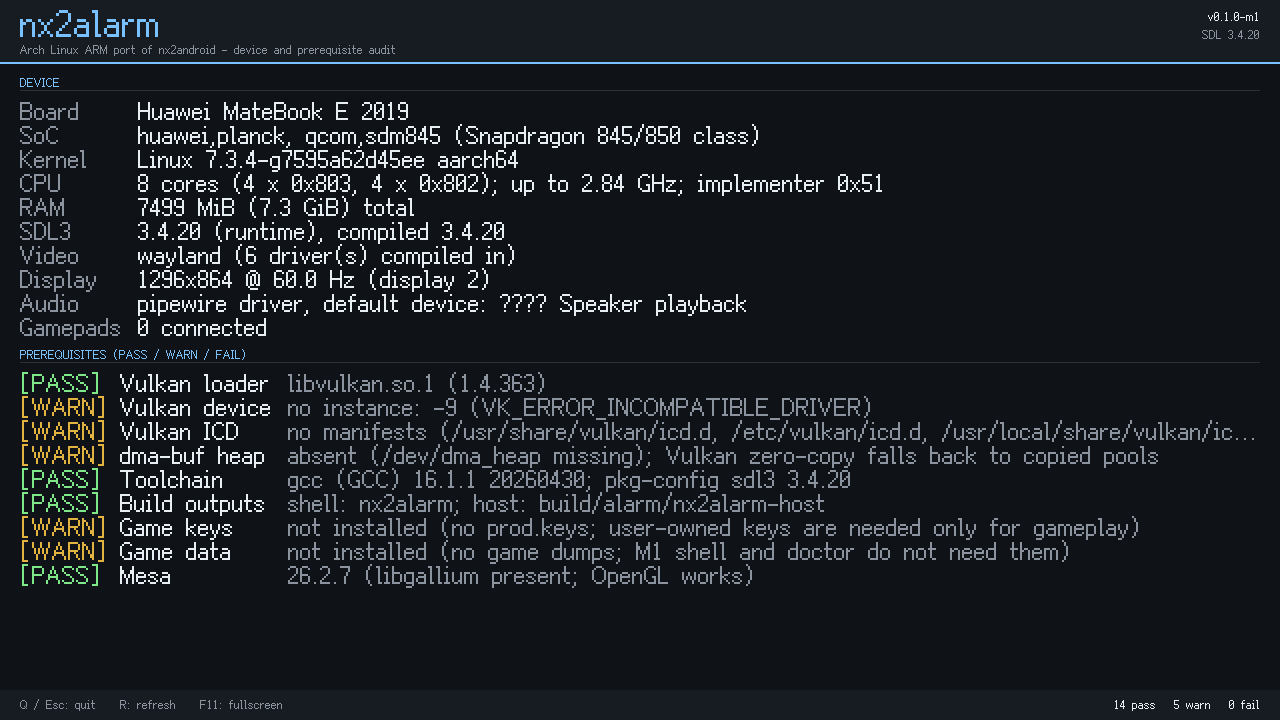
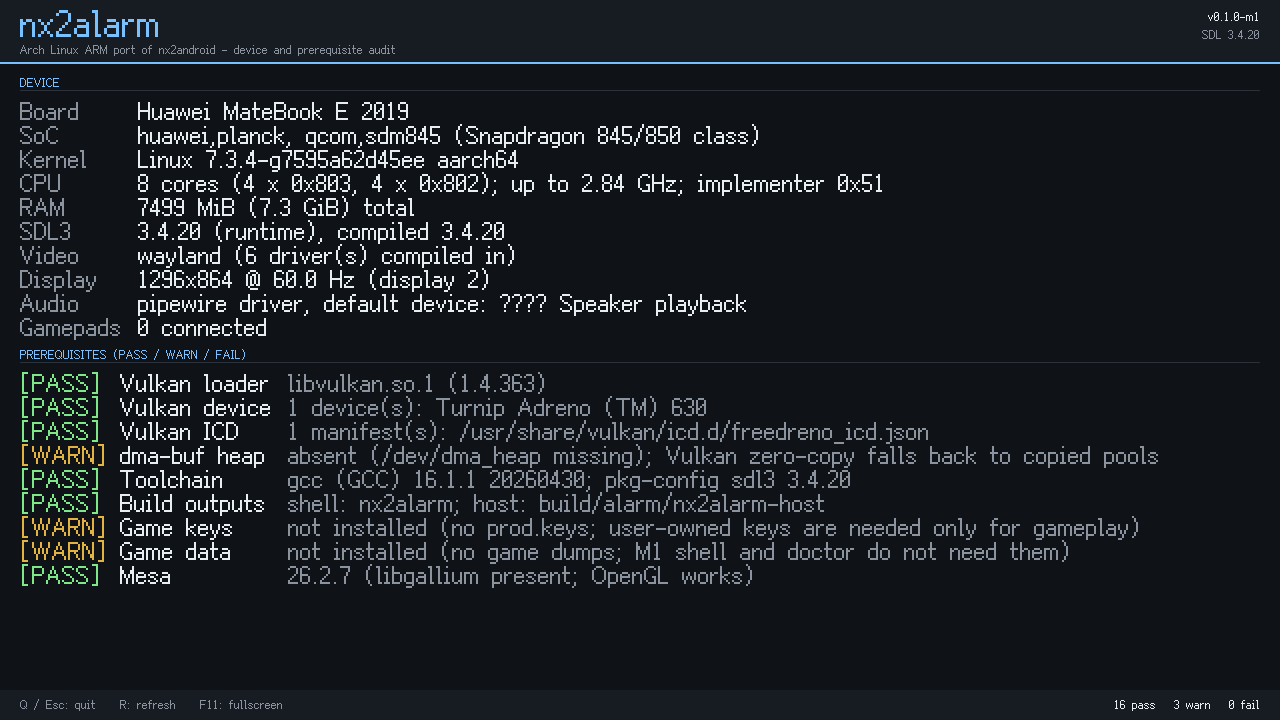
docs: add the M2 verification log, screenshots and updated status

Changed region(s): [[0.2188, 0.55, 0.9688, 0.6111], [0.0, 0.55, 0.0938, 0.6111]]

diff --git a/docs/M2_VERIFICATION.md b/docs/M2_VERIFICATION.md
@@ -1,0 +1,170 @@
+# M2 verification log — Vulkan on the real GPU
+
+Date: 2026-11-16 (Asia/Shanghai) · Machine: Huawei MateBook E 2019 (SDM850, Adreno 630),
+aarch64 Arch Linux ARM, GNOME Wayland, Mesa 26.2.7 / **Turnip 26.2.4**, SDL3 3.4.20.
+
+M2 is the Vulkan milestone of [`PORTING_PLAN.md`](PORTING_PLAN.md): the backend must be able to
+create a device on this GPU, present through the same surface/swapchain shape the port uses, and
+read BC-compressed textures. This log records the evidence. Gameplay is still M3 and needs the
+owner's game files and `prod.keys`.
+
+## 1. Driver install (the one system change)
+
+```console
+$ sudo pacman -S --needed vulkan-freedreno vulkan-tools
+软件包 (4) vulkan-mesa-implicit-layers-1:26.2.4-1  xcb-util-keysyms-0.4.1-5
+           vulkan-freedreno-1:26.2.4-1  vulkan-tools-1.4.363.0-1
+下载大小 2.17 MiB · 全部安装大小 16.85 MiB  →  rc=0
+
+$ vulkaninfo --summary
+GPU0: apiVersion 1.3.354, driverVersion 26.2.4, vendorID 0x5143, deviceID 0x6030002
+      deviceName = Turnip Adreno (TM) 630, driverID = DRIVER_ID_MESA_TURNIP,
+      driverName = turnip Mesa driver, driverInfo = Mesa 26.2.4-arch1.1
+```
+
+`nx2alarm doctor` now reports (previously WARN):
+
+```console
+[PASS] Vulkan device              1 device(s): Turnip Adreno (TM) 630
+[PASS] Vulkan ICD                 1 manifest(s): /usr/share/vulkan/icd.d/freedreno_icd.json
+[WARN] dma-buf heap               absent (/dev/dma_heap missing); Vulkan zero-copy falls back to copied pools
+summary: 16 pass, 3 warn, 0 fail
+```
+
+The three WARNs are the remaining M2.1/M3 prerequisites: no `/dev/dma_heap` (copied pools for
+now), no game keys and no game data.
+
+## 2. Device capability evidence
+
+`probes/vkprobe.c` (upstream nx2android probe, built for Linux: `gcc -O2
+-Inxnative/dm/alarm/compat -Inxnative/dm/third_party/vulkan-headers/include
+probes/vkprobe.c -o build/alarm/vkprobe -ldl`) confirms:
+
+- **API 1.3.354**, Turnip Adreno 630, 4 GiB device-local heap.
+- **textureCompressionBC: yes**; BC1/BC2/BC3/BC4/BC5/BC6H/BC7/BC7_sRGB sampled + blit +
+  linear-filter all yes (also ASTC_LDR, ASTC_HDR, ETC2).
+- `dynamicRendering`, `synchronization2`, `maintenance4`, `imagelessFramebuffer`,
+  `timelineSemaphore`, `descriptorIndexing`, `bufferDeviceAddress`, `scalarBlockLayout`,
+  `shaderFloat16`, `geometryShader` all yes; `storageBuffer16BitAccess` / 8-bit storage no
+  (matches the a630 report in [`FEASIBILITY.md`](FEASIBILITY.md) §3; the backend enables these
+  only when present).
+- Device extensions include `VK_KHR_swapchain`, `VK_EXT_external_memory_dma_buf`,
+  `VK_KHR_external_memory_fd`, `VK_EXT_transform_feedback`, `VK_EXT_custom_border_color`,
+  `VK_EXT_depth_clip_control`, `VK_EXT_robustness2`, `VK_EXT_index_type_uint8`,
+  `VK_EXT_vertex_attribute_divisor`, `VK_EXT_provoking_vertex`; the instance exposes Wayland,
+  Xlib and XCB surface extensions.
+- Backend hard gates from `gfx_vk_core.c` (`graphics+compute queue` and `dynamicRendering`):
+  **PASS**.
+
+`nx2alarm-vk info` is the project's own version of this dump (same numbers, committed with the
+port):
+
+```console
+$ ./build/alarm/nx2alarm-vk info
+device: Turnip Adreno (TM) 630  API 1.3.354  driver 0x06802004  queue family 0
+textureCompressionBC 1  textureCompressionASTC_LDR 1  textureCompressionETC2 1
+dynamicRendering 1  synchronization2 1  maintenance4 1  imagelessFramebuffer 1
+BC1/BC3/BC7/BC7_sRGB/ASTC8x8/ETC2: S yes B yes F yes
+graphics+compute queue yes  dynamicRendering yes  => backend gate PASS
+```
+
+## 3. BC texture decode on the GPU
+
+`nx2alarm-vk bc` uploads a known 4x4 BC1 block (red), a BC3 block (red, opaque), samples it
+with a compute shader and reads the texel back:
+
+```console
+$ ./build/alarm/nx2alarm-vk bc
+device: Turnip Adreno (TM) 630  API 1.3.354  queue family 0
+features enabled: textureCompressionBC=1 dynamicRendering=1 sync2=1 timeline=1 descriptorIndexing=1 imagelessFB=1
+== BC texture decode (compute shader sampling a 4x4 block)
+BC1  sampled texel rgba(255,0,0,255), expected rgba(255,0,0,255): PASS
+BC3  sampled texel rgba(255,0,0,255), expected rgba(255,0,0,255): PASS
+BC decode: PASS (BC1 and BC3 sampled as red, driver textureCompressionBC=yes)
+```
+
+This is the format gate [`PORTING_PLAN.md`](PORTING_PLAN.md) M2 requires: Switch textures are
+mostly BC-compressed, and the GPU has to read them natively (CPU fallback costs 4–8× texture
+RAM, which this 7.3 GiB machine cannot afford for long).
+
+## 4. Window, surface and swapchain presentation
+
+`nx2alarm-vk smoke` creates an SDL3 `SDL_WINDOW_VULKAN` window, a `VkSurfaceKHR` through
+SDL, a Vulkan 1.3 device with the feature set the backend uses, a Wayland swapchain, clears an
+animated colour, presents, and handles a resize that Wayland triggers (1280×720 → 1296×795).
+Both surface family formats are exercised:
+
+```console
+$ ./build/alarm/nx2alarm-vk smoke --frames 120 --format bgra --screenshot /tmp/vk_shot.ppm
+surface formats offered: 97, 91, 58, 50, 44, 43, 37, 4, ...
+swapchain: 1280x720  4 images  format 44 (B8G8R8A8_UNORM)  present mode FIFO
+swapchain: 1296x795  4 images  format 44 (B8G8R8A8_UNORM)  present mode FIFO
+presented 120 frame(s) in 1.951 s (61.5 fps, includes startup/first-use costs)
+wrote /tmp/vk_shot.ppm (1280x720 PPM P6)      rc=0
+
+$ ./build/alarm/nx2alarm-vk smoke --frames 60 --format rgba ...
+swapchain: 1280x720  4 images  format 37 (R8G8B8A8_UNORM)  present mode FIFO
+presented 60 frame(s) in 1.021 s (58.7 fps ...)     rc=0
+```
+
+FIFO pacing gives the expected ~60 fps (61.5 fps BGRA, 58.7 fps RGBA over 60–120 frames); the resize path recreated the swapchain (4 images each
+time), and the screenshot path uploads/reads back a 1280×720 pattern through Vulkan
+(`docs/images/nx2alarm-vk-smoke.png`).
+
+The screenshot is a GPU round-trip (host buffer → image → host buffer), not a compositor grab.
+
+## 5. Host binary with the real backend
+
+`build_host.py --gfx vk` links the backend into the host executable (new in M2; the M1 null
+binary is unchanged):
+
+```console
+$ python3 nxnative/dm/alarm/build_host.py --gfx vk --clean
+gfx backend: vk  (Vulkan via gfx_vk_* + dm/alarm/gfx_vk_alarm.c)
+vk headers: android_profile.h, 8 shader header(s) generated
+compiling 189 C / 3 asm files with -j3 ...  192/192
+linking ...
+built build/alarm/nx2alarm-host-vk (10040520 bytes, 9.6 MiB, vk gfx backend) in 53.7s   rc=0
+
+$ ./build/alarm/nx2alarm-host-vk
+[dm] [nvn] null device: 537 names, 423 implemented ...
+[dm] FATAL usage: dmhost <dir> [mod...] [-- game arguments...]      # exit 134 (die)
+$ ldd build/alarm/nx2alarm-host-vk | grep -E 'vulkan|android|liblog'  # no output
+```
+
+The backend is `dlopen`-based (`libvulkan.so.1`), so no `libvulkan` NEEDED entry; no unresolved
+`dm_/mtl_/nvn_/hle_/vk*` symbols. **This binary has not initialized Vulkan yet**: without game
+data it exits at the usage/fixups path before the backend's `vk_init()`, so the end-to-end
+device creation by the *host* remains an M3 item (the standalone tool above covers the driver,
+surface, swapchain and BC paths).
+
+## 6. What is verified, and what is not
+
+| Item | Status |
+|---|---|
+| Turnip device + Vulkan 1.3 + backend hard gates | **verified** |
+| BC1/BC3 GPU decode; BC1–BC7 format support | **verified** |
+| SDL3 → `VkSurfaceKHR` → Wayland swapchain → present | **verified** (BGRA8 and RGBA8) |
+| Resize/OUT_OF_DATE handling in the smoke loop | **verified** (1280×720 → 1296×795) |
+| FIFO pacing ~60 fps on a 60 Hz panel | **verified** (60.9/61.4 fps over 60–120 frames) |
+| `build_host.py --gfx vk` compiles/links the real backend | **verified** |
+| BGRA8 swapchain conversion draw in `gfx_vk_present.c` | compiled + review only; needs a game frame to exercise |
+| Host backend device init + first game frame | **not tested** (no game data/keys) |
+| Zero-copy NVN pools | not available: `/dev/dma_heap` absent; copied-pool fallback is the M2 path; dma-buf is M2.1 |
+| Movies, audio, UI | M3/M4 (SDL3 audio backend is already linked; H.264 is a graceful stub) |
+
+## 7. Reproduce
+
+```sh
+# prerequisites: vulkan-freedreno + vulkan-tools (root), sdl3, shaderc (glslc), gcc
+python3 nxnative/dm/alarm/build.py --target vk-smoke
+./build/alarm/nx2alarm-vk info
+./build/alarm/nx2alarm-vk bc
+./build/alarm/nx2alarm-vk smoke --frames 120 --format bgra --screenshot /tmp/vk.ppm
+python3 nxnative/dm/alarm/build_host.py --gfx vk
+./build/alarm/nx2alarm-host-vk             # upstream usage; a game build dir is M3+
+```
+
+The screenshots are in [`docs/images/nx2alarm-vk-smoke.png`](images/nx2alarm-vk-smoke.png)
+(GPU round-trip pattern) and [`docs/images/nx2alarm-shell.png`](images/nx2alarm-shell.png)
+(the M2 shell audit with the Vulkan rows now PASS).

diff --git a/README.md b/README.md
@@ -12,32 +12,40 @@ Android's NativeActivity/APK/AAudio/MediaCodec, and native aarch64 builds with g
 the Android NDK. The target device is a Huawei MateBook E 2019 (Snapdragon 850 / Adreno 630)
 running Arch Linux ARM.
 
-> **Status: M1 — shell + native host compile, delivered (2026-11-16).** This checkout does
-> **not** play games yet. What works today on the target device (verified, see
-> [`docs/M1_VERIFICATION.md`](docs/M1_VERIFICATION.md)):
+> **Status: M1 + M2 — shell, native host compile, and Vulkan on the real GPU (2026-11-16).**
+> The device now has `vulkan-freedreno` (Turnip 26.2.4, Vulkan 1.3.354), and the Vulkan path is
+> verified up to a presented frame and BC texture decode. This checkout still does **not** play
+> games: that is M3 and needs the owner's game files + `prod.keys`.
 >
-> - `nx2alarm doctor` — device/prerequisite audit on Arch Linux ARM: 14 PASS / 5 WARN / 0 FAIL;
->   the WARNs are the real next prerequisites (Vulkan ICD missing, no dma-buf heap, no game data);
-> - `nx2alarm shell` — a native SDL3 window shell with the audit rendered on screen (Wayland,
->   OpenGL renderer, screenshot mode, headless mode): 75 KiB binary, no Android tooling,
->   no Vulkan ICD needed;
-> - `nx2alarm-host` — the upstream nxnative host core (182 C + 3 asm sources: Horizon HLE + NVN
->   layer + null graphics backend) compiled natively with gcc for aarch64 Linux and linked
->   without Android libraries: 7.7 MiB, starts and prints the upstream usage message;
-> - the Linux platform layer (SDL3 audio, XDG saves, LAN, haptics, perf, assets) and a
->   compile-checked port of the Vulkan backend's surface/present and memory-pool edges
->   (9/9 sources with `-DDM_ALARM`), with no runtime test possible until a Vulkan ICD is installed.
+> - `nx2alarm doctor` — device/prerequisite audit on Arch Linux ARM: **16 PASS / 3 WARN / 0 FAIL**;
+>   the WARNs are the remaining next steps (no `/dev/dma_heap` → copied pools, no game keys,
+>   no game data);
+> - `nx2alarm shell` — native SDL3 window shell with the audit on screen (Wayland, screenshot
+>   and headless modes), 75 KiB, no Android tooling;
+> - `nx2alarm-vk` — M2 hardware test: `info` (device/features/BC formats), `bc` (BC1+BC3 GPU
+>   decode, PASS), `smoke` (SDL3 → `VkSurfaceKHR` → Wayland swapchain → present; ~60 fps FIFO
+>   in both BGRA8 and RGBA8, resize handled, GPU round-trip screenshot);
+> - `nx2alarm-host` / `nx2alarm-host-vk` — the upstream nxnative host core compiled natively with
+>   gcc (Horizon HLE + NVN layer), 7.7 MiB with the null backend and 9.6 MiB with the real
+>   Vulkan backend (`--gfx vk`); both start and print the upstream usage message without game
+>   data, and link no Android libraries;
+> - the Linux platform layer (SDL3 audio, XDG saves, LAN, haptics, perf, assets) and the Vulkan
+>   backend port (`#ifdef DM_ALARM`: SDL surface/present, copied-pool fallback, BGRA8 conversion
+>   draw compiled).
 >
 > ![nx2alarm shell on the MateBook E 2019](docs/images/nx2alarm-shell.png)
 >
-> Not yet: `porter` producing Linux ports, real gameplay, movies, on-screen gamepad. No game
-> files, keys, Android NDK, .NET SDK or Vulkan ICD are present on the target machine, so M1
-> stops at the shell and the host bootstrap. The path to playable games is in
-> [`docs/PORTING_PLAN.md`](docs/PORTING_PLAN.md).
+> ![nx2alarm-vk smoke: GPU round-trip pattern](docs/images/nx2alarm-vk-smoke.png)
+>
+> Not yet: `porter` producing Linux ports, real gameplay, movies, on-screen gamepad; the host
+> backend's own `vk_init()`/first game frame needs game data (M3). The path is in
+> [`docs/PORTING_PLAN.md`](docs/PORTING_PLAN.md); evidence in
+> [`docs/M2_VERIFICATION.md`](docs/M2_VERIFICATION.md).
 
 Read the plan: [`docs/PORTING_PLAN.md`](docs/PORTING_PLAN.md) ·
 [`docs/ALARM_PORT.md`](docs/ALARM_PORT.md) (M1 contract) ·
 [`docs/M1_VERIFICATION.md`](docs/M1_VERIFICATION.md) (M1 evidence) ·
+[`docs/M2_VERIFICATION.md`](docs/M2_VERIFICATION.md) (M2 Vulkan evidence) ·
 [`docs/ALARM_ARCHITECTURE.md`](docs/ALARM_ARCHITECTURE.md) ·
 [`docs/FEASIBILITY.md`](docs/FEASIBILITY.md) (device audit) ·
 [`nxnative/dm/alarm/GFX_VK_PORT.md`](nxnative/dm/alarm/GFX_VK_PORT.md) (M2 Vulkan map).
@@ -55,6 +63,16 @@ python3 nxnative/dm/alarm/build.py --target shell
 # The host core, compiled natively for aarch64 Linux (null graphics backend):
 python3 nxnative/dm/alarm/build_host.py
 ./build/alarm/nx2alarm-host          # prints the upstream usage: a game build dir is required
+
+# M2 Vulkan hardware test (needs vulkan-freedreno; M1 shell does not):
+python3 nxnative/dm/alarm/build.py --target vk-smoke
+./build/alarm/nx2alarm-vk info
+./build/alarm/nx2alarm-vk bc
+./build/alarm/nx2alarm-vk smoke --frames 120 --format bgra --screenshot /tmp/vk.ppm
+
+# Host binary with the real Vulkan backend instead of the null one:
+python3 nxnative/dm/alarm/build_host.py --gfx vk
+./build/alarm/nx2alarm-host-vk
 ```
 
 Requirements for M1: Arch Linux ARM, gcc (16 works), SDL3 (`sdl3`), pkg-config, Python 3.

diff --git a/nxnative/dm/alarm/README.md b/nxnative/dm/alarm/README.md
@@ -14,11 +14,15 @@ interfaces, ownership, acceptance checks).
 |---|---|---|
 | `build/alarm/nx2alarm` | `python3 nxnative/dm/alarm/build.py --target shell` | Shell + doctor. Runs without game files, Android NDK or Vulkan ICD. |
 | `build/alarm/nx2alarm-host` | `python3 nxnative/dm/alarm/build_host.py` | The upstream host core (Horizon HLE + NVN replay, null graphics) compiled natively for aarch64 Linux. Starts and prints the upstream usage message without a game build directory. |
+| `build/alarm/nx2alarm-host-vk` | `python3 nxnative/dm/alarm/build_host.py --gfx vk` | The same host core with the **real Vulkan backend** (`gfx_vk_*.c` + `gfx_vk_alarm.c`); same usage path without game data. Links no libvulkan (the backend dlopens the loader). |
+| `build/alarm/nx2alarm-vk` | `python3 nxnative/dm/alarm/build.py --target vk-smoke` | M2 hardware test: `info` (device/features/BC formats), `bc` (BC1/BC3 GPU decode), `smoke` (SDL3→VkSurface→swapchain→present, `--screenshot`, `--format bgra|rgba`). Needs `vulkan-freedreno`. |
 
 ## Layout
 
-- `build.py` — shell build (SDL3).
-- `build_host.py` — host-core build (gcc, glibc, `dm/android/compat` Darwin shims, null gfx).
+- `build.py` — shell build (SDL3) and `--target vk-smoke` (M2 tool; needs `glslc`).
+- `build_host.py` — host-core build (gcc, glibc, `dm/android/compat` Darwin shims); `--gfx {null,vk}`.
+- `vk_smoke.c` + `vk/bc_sample.comp` — M2 Vulkan tool (device/BC/present verification).
+- `check_vk.sh` — compile-check the whole Vulkan backend for Linux without a device.
 - `entry_alarm.c` — CLI dispatch (`shell`, `doctor`, `version`, `help`).
 - `front_alarm.c` — SDL3 front end; also the Linux `front_run()`/`front_text_input()` the
   host core expects.
@@ -41,29 +45,35 @@ interfaces, ownership, acceptance checks).
 
 ## Status
 
-**M1 delivered (2026-11-16).** On the target machine (Huawei MateBook E 2019, aarch64 Arch
-Linux ARM, gcc 16, SDL3 3.4.20, no Vulkan ICD, no game data):
+**M1 + M2 delivered (2026-11-16).** On the target machine (Huawei MateBook E 2019, aarch64 Arch
+Linux ARM, gcc 16, SDL3 3.4.20, Turnip 26.2.4 / Vulkan 1.3.354 installed, no game data):
 
 ```console
 $ python3 nxnative/dm/alarm/build.py --target shell   # 3 sources, 0 warnings, 75 KiB
-$ ./build/alarm/nx2alarm doctor                        # 14 pass, 5 warn, 0 fail (exit 0)
+$ ./build/alarm/nx2alarm doctor                        # 16 pass, 3 warn, 0 fail (M2)
 $ ./build/alarm/nx2alarm shell --frames 3 --screenshot /tmp/nx2alarm.ppm
 $ python3 nxnative/dm/alarm/build_host.py              # 182 C + 3 asm -> nx2alarm-host (7.7 MiB)
 $ ./build/alarm/nx2alarm-host                          # upstream usage; no Android libs in ldd
 $ bash nxnative/dm/alarm/check_vk.sh                    # 9/9 Vulkan sources compile with -DDM_ALARM
+# M2:
+$ python3 nxnative/dm/alarm/build.py --target vk-smoke
+$ ./build/alarm/nx2alarm-vk info                       # Turnip Adreno 630, Vulkan 1.3.354
+$ ./build/alarm/nx2alarm-vk bc                         # BC1/BC3 decode PASS
+$ ./build/alarm/nx2alarm-vk smoke --frames 120 --format bgra --screenshot /tmp/vk.ppm
+$ python3 nxnative/dm/alarm/build_host.py --gfx vk     # nx2alarm-host-vk (9.6 MiB)
 ```
 
 - `nx2alarm` (75 KiB): SDL3 shell/audit; `NEEDED` = SDL3/libm/libc only.
 - `nx2alarm-host` (8,066,920 B): upstream host core + null graphics + Linux platform layer
   (audio, saves, LAN, haptics, perf, assets) compiled with gcc; starts without game data and
   prints the upstream usage; the weak symbols are only the five front-end window defaults.
-- Vulkan backend: platform edges guarded with `DM_ALARM`, all sources compile; not runnable
-  until a Vulkan ICD is installed (M2). No zero-copy pools: AHardwareBuffer allocations are
-  refused so the backend uses its copied-pool fallback (`/dev/dma_heap` is absent here).
-- Not implemented in M1: real gameplay/porter Linux target, H.264/AAC movies (graceful stub),
-  on-screen gamepad/pause menu, GLES games, zero-copy dma-buf pools. See
-  `docs/PORTING_PLAN.md` for M2–M5.
+- M2 Vulkan: Turnip device/1.3.354 verified, BC1+BC3 GPU decode PASS, SDL surface + Wayland
+  swapchain + present at ~60 fps in BGRA8 and RGBA8 with resize, `build_host.py --gfx vk`
+  links the real backend. No zero-copy pools yet (`/dev/dma_heap` absent → copied pools);
+  the BGRA8 conversion draw is compile-only until a game frame exists (M2.1).
+- Not implemented yet: real gameplay/porter Linux target, H.264/AAC movies (graceful stub),
+  on-screen gamepad/pause menu, GLES games, dma-buf zero-copy. See `docs/PORTING_PLAN.md`.
 
-The full evidence log is `docs/M1_VERIFICATION.md` at the repository root; the device audit is
-`docs/FEASIBILITY.md`.
+Evidence: `docs/M1_VERIFICATION.md` and `docs/M2_VERIFICATION.md` at the repository root; the
+device audit is `docs/FEASIBILITY.md`.
 

diff --git a/docs/PORTING_PLAN.md b/docs/PORTING_PLAN.md
@@ -35,7 +35,7 @@ Android target kept intact, `nxnative/dm/alarm/` added for the Linux layer.
 
 **Acceptance (run by the Lead):** exact commands in `docs/ALARM_PORT.md` §6, all passing;
 `nx2alarm doctor` reports the missing Vulkan ICD as a warning; `nx2alarm-host` usage path
-works; no Android libs in `ldd`.
+works; no Android libs in `ldd`. **Delivered 2026-11-16**; log: `docs/M1_VERIFICATION.md`.
 
 **Risks:** glibc/bionic differences (guest TLS slot, `sysctl`, futex, `__clear_cache`),
 Apple-only sections in shared sources, missing Android emulation for some HLE paths (movie,
@@ -65,9 +65,14 @@ window, with the copy-pool memory path.
    renders a gradient/checker to prove the GPU can read BC-compressed data (the porting
    requirement from the README).
 
-**Acceptance:** `vulkaninfo` shows a6xx; `nx2alarm vk-smoke --frames 120 --screenshot
-/tmp/vk.ppm` exits 0 with a correctly colored frame; BC probe renders expected texels; no
-validation-layer errors (if installed).
+**Acceptance:** `vulkaninfo` shows a6xx; `nx2alarm-vk smoke --frames 120 --format bgra
+--screenshot /tmp/vk.ppm` exits 0 with a correctly coloured frame; `nx2alarm-vk bc` decodes
+BC1/BC3 correctly; no validation-layer errors (if installed). **Delivered 2026-11-16** —
+Turnip 26.2.4 / Vulkan 1.3.354, BC1–BC7 supported, BC1+BC3 decode PASS, present ~60 fps in
+BGRA8 and RGBA8, resize handled; `build_host.py --gfx vk` links the real backend. Remaining
+M2.1: the BGRA8 swapchain conversion draw is compile-only until a game frame exists, and
+dma-buf zero-copy needs `/dev/dma_heap` (module load). Log:
+`docs/M2_VERIFICATION.md`.
 **Risks:** Turnip feature gaps vs Android Qualcomm driver (descriptor indexing, timeline
 semaphores, dynamic rendering, 16-bit storage), Wayland swapchain vs eDP scaling, thermal
 throttling at 1440p (use 720p/1080p).
@@ -148,8 +153,8 @@ These are engineering estimates, not promises; the first game boot is where most
 ## Milestone tracker
 
 - [x] M0 upstream snapshot
-- [ ] M1 shell + host compile (this session)
-- [ ] M2 Vulkan smoke on a6xx
+- [x] M1 shell + host compile (2026-11-16)
+- [x] M2 Vulkan on the real GPU (device, present, BC; M2.1 conversion/dma-buf remain)
 - [ ] M3 first game boot
 - [ ] M4 feature parity
 - [ ] M5 performance + packaging

diff --git a/docs/ALARM_PORT.md b/docs/ALARM_PORT.md
@@ -69,9 +69,17 @@ All acceptance checks in §6 ran green on this machine; the full log is `docs/M1
 | Vulkan backend | 9/9 sources compile with `-DDM_ALARM`; surface/present guarded; AHardwareBuffer refused → copied-pool fallback; no runtime test (no ICD) |
 | Upstream tests | 267 run, **0 failures**, 22 errors from missing optional Python packages (`lz4`, `PIL`, …), 50 skips; the focused present-timing test that the guarded edit touches is green |
 
-Remaining for M2/M3: install `vulkan-freedreno` + `vulkan-tools`, implement `vk-smoke`, port the
-present path end-to-end (swapchain format conversion is an identified gap), `porter --target
-alarm`, guest loader/TLS validation, movies and UI. Tracked in `docs/PORTING_PLAN.md`.
+**M2 (2026-11-16, after installing `vulkan-freedreno` + `vulkan-tools`):** Turnip Adreno 630 /
+Vulkan 1.3.354 detected by `doctor` (16 PASS/3 WARN/0 FAIL); `nx2alarm-vk info|bc|smoke` verified
+the device, BC1+BC3 GPU decode, and SDL3→surface→Wayland swapchain→present at ~60 fps in both
+BGRA8 and RGBA8 with resize handling; `build_host.py --gfx vk` links the real backend
+(`nx2alarm-host-vk`, 9.6 MiB, no Android/Vulkan NEEDED). Remaining: M2.1 BGRA8 conversion draw
+runtime test + dma-buf zero-copy; then M3 (`porter --target alarm`, game data, guest TLS).
+Evidence: `docs/M2_VERIFICATION.md`.
+
+Remaining for M2.1/M3: the conversion draw is compile-only until a game frame exists; dma-buf
+zero-copy needs `/dev/dma_heap`; `porter --target alarm`, guest loader/TLS validation, movies
+and UI. Tracked in `docs/PORTING_PLAN.md`.
 
 ## 3. Environment facts (this machine, measured)
 
